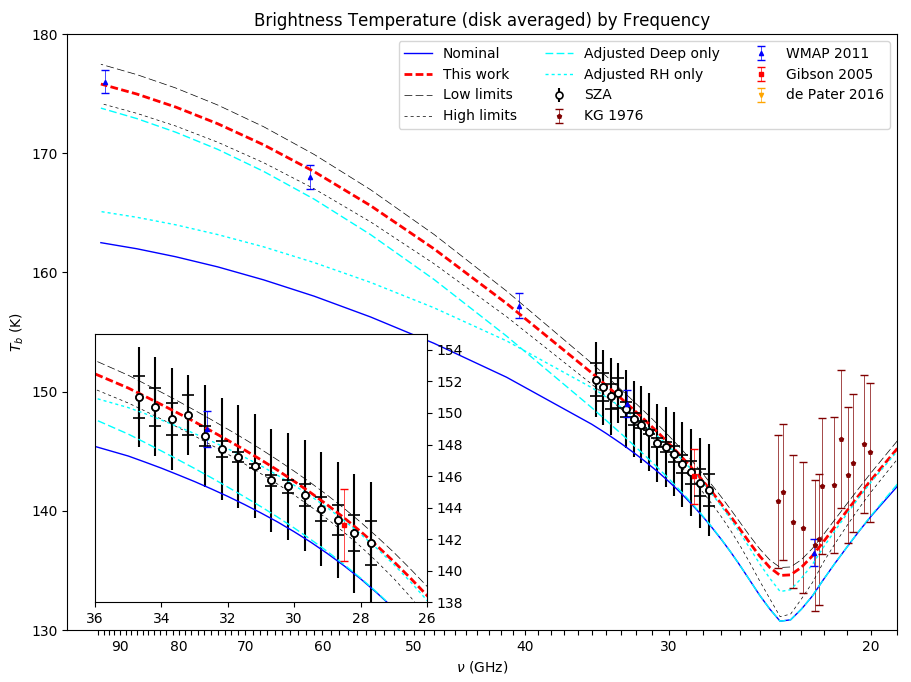
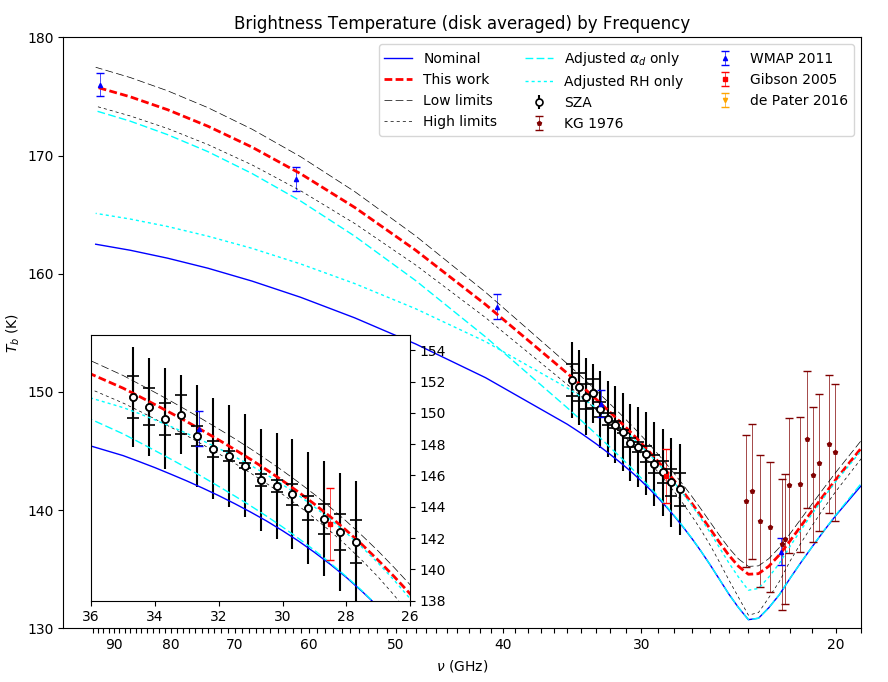
corrections to some figures

diff --git a/projectwriteup.tex b/projectwriteup.tex
@@ -297,7 +297,7 @@ In order to investigate whether identifiable systematics are present, we conduct
 	\begin{figure}
 		\centering
 		\includegraphics[width=\textwidth]{final_models_wl.png}
-		\caption{\label{fig:emission_wl}CARMA measurements of disk-averaged brightness temperature together with extant measurements. Nominal model is included, as well as the model we suggest in this work, using parameters discussed in Section \ref{s:results}, and the global high- and low-abundance limits. The lower limit for high altitude atmospheric abundance is, as discussed in the text, not stated in this work. CARMA measurements are shown with a relative certainty at the capped error bars and absolute uncertainty at the larger, uncapped bars. Note the uniformity in absolute certainty and the frequency-dependent variation in relative uncertainty.}
+		\caption{\label{fig:emission_wl}CARMA measurements of disk-averaged brightness temperature together with extant measurements (KG: \citealt{1978Icar...35...44K}; WMAP: \citealt{2011ApJS..192...19W}; Gibson: \citealt{2005Icar..173..439G}; de Pater: \citealt{2016AGUFM.P31D..08D}). Nominal model is included, as well as the model we suggest in this work, using parameters discussed in Section \ref{s:results}, and the global high- and low-abundance limits. The lower limit for high altitude atmospheric abundance is, as discussed in the text, not stated in this work. CARMA measurements are shown with a relative certainty at the capped error bars and absolute uncertainty at the larger, uncapped bars. Note the uniformity in absolute certainty and the frequency-dependent variation in relative uncertainty.}
 	\end{figure}
 
 	\begin{figure}
